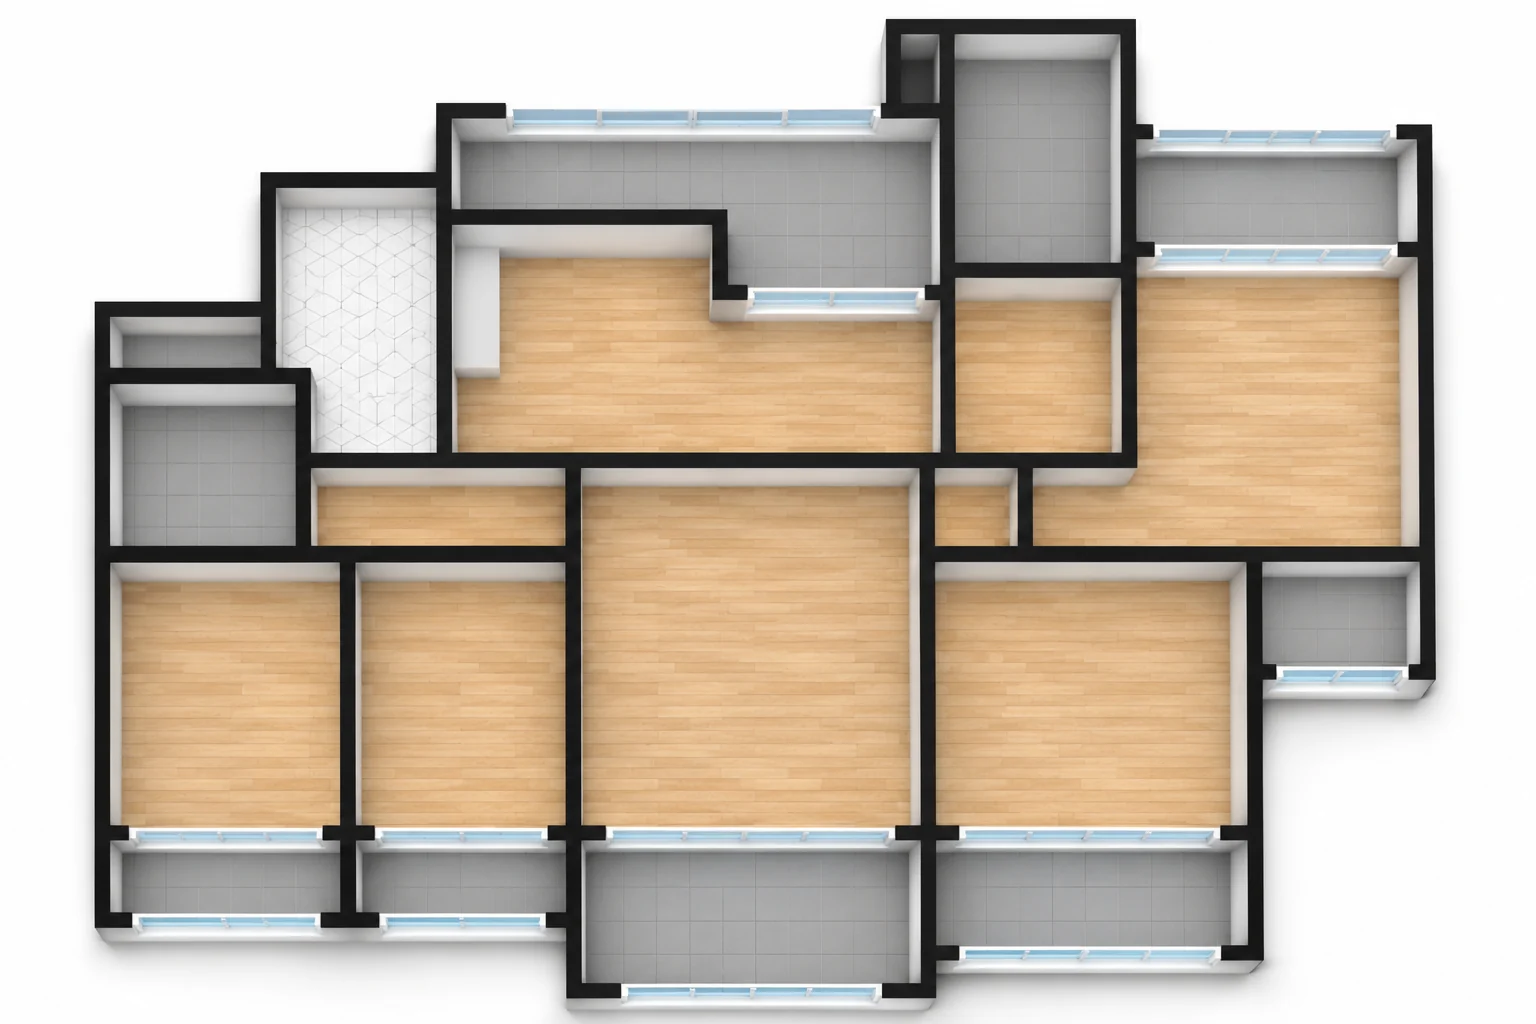
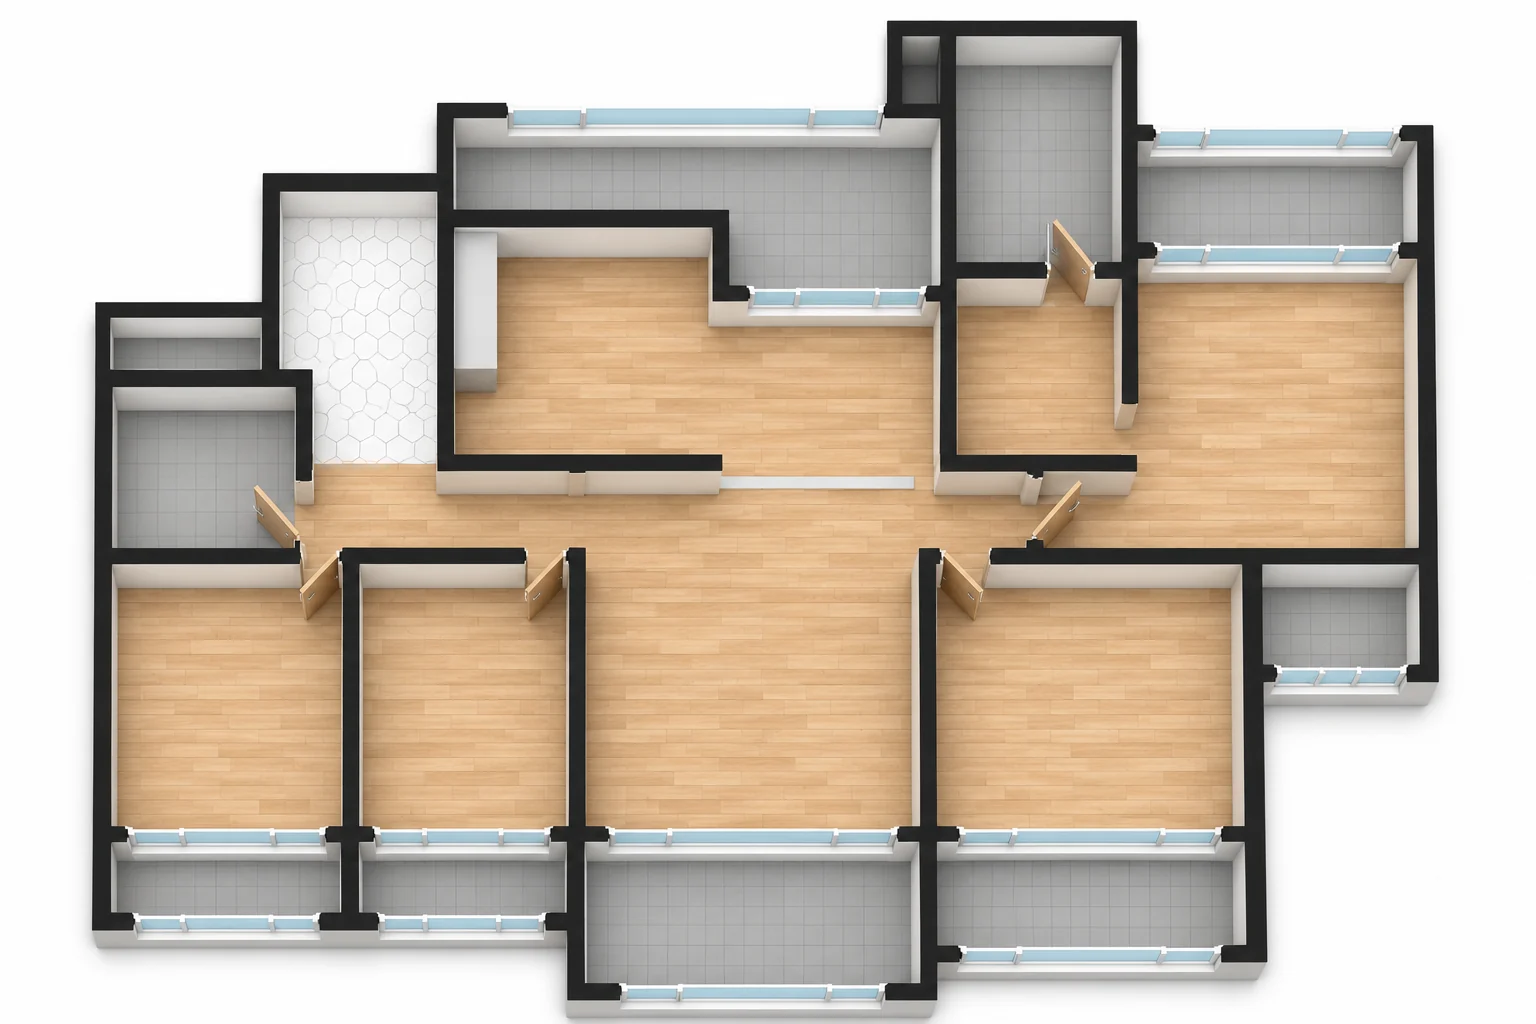
3D 둘러보기: 평면도 문·통로 열림(코덱스 다시 그림) · 확대 시 뒤 360° 비침 가림

Changed region(s): [[0.0625, 0.0312, 0.9375, 1.0], [0.125, 0.625, 0.1562, 0.6875], [0.5938, 0.1875, 0.625, 0.2188]]

diff --git a/tour/handyman/lottecastle/index.html b/tour/handyman/lottecastle/index.html
@@ -161,7 +161,8 @@ h1, h2, h3, p { margin: 0; }
 .mini .mm-room[aria-current="true"] rect, .mini .mm-room[aria-current="true"] path { fill: rgba(15,122,108,.34); stroke: #0f7a6c; stroke-width: 3px; }
 .mini .wall3d path { fill: none; stroke: #15191b; stroke-width: 9; stroke-linejoin: miter; stroke-linecap: square; }
 .mini .win3d .pane { fill: none; stroke: #ffffff; stroke-width: 9; } .mini .win3d .glass { fill: none; stroke: #a9c8d6; stroke-width: 3; }
-.mini .wall3d, .mini .win3d, .mini .f3d { pointer-events: none; }
+.mini .wall3d, .mini .win3d, .mini .f3d, .mini .opn, .mini .door3d { pointer-events: none; }
+.mini .opn rect { fill: url(#pWood); stroke: none; vector-effect: none; } .mini .door3d path { fill: none; stroke: #3b4248; stroke-width: 2; vector-effect: none; }
 .mini text { paint-order: stroke; stroke: rgba(255,255,255,.88); stroke-width: 5px; stroke-linejoin: round; fill: #17242a; }
 .mini text.e { fill: #3d4a50; }
 </style>
@@ -541,7 +542,7 @@ h1, h2, h3, p { margin: 0; }
       if (cv.width !== Math.round(pw * d) || cv.height !== Math.round(ph * d)) { cv.width = Math.round(pw * d); cv.height = Math.round(ph * d); cv.style.width = pw + "px"; cv.style.height = ph + "px"; }
       var L = el.offsetLeft, T = el.offsetTop, W = el.offsetWidth, H = el.offsetHeight, nw = el.naturalWidth, nh = el.naturalHeight,
           k = Math.min(W / nw, H / nh), fw = nw * k, fh = nh * k, fx = L + (W - fw) / 2, fy = T + (H - fh) / 2, cx = L + W / 2, cy = T + H / 2;
-      ctx.setTransform(d, 0, 0, d, 0, 0); ctx.clearRect(0, 0, pw, ph);
+      ctx.setTransform(d, 0, 0, d, 0, 0); ctx.fillStyle = getComputedStyle(el).backgroundColor || getComputedStyle(par).backgroundColor || "#e6e9eb"; if (/rgba\(0, 0, 0, 0\)|transparent/.test(ctx.fillStyle) || ctx.fillStyle === "rgba(0, 0, 0, 0)") ctx.fillStyle = "#e6e9eb"; ctx.fillRect(0, 0, pw, ph);   /* 11-18 확대 중 뒤 360° 화면이 비쳐 보이던 것 — 바탕을 칠해 가린다 */
       ctx.translate(cx + x, cy + y); ctx.scale(s, s); ctx.translate(-cx, -cy);
       ctx.imageSmoothingEnabled = true; ctx.imageSmoothingQuality = "high";
       ctx.drawImage(el, fx, fy, fw, fh);

diff --git a/tour/dain/samsung/index.html b/tour/dain/samsung/index.html
@@ -509,7 +509,7 @@ h1, h2, h3, p { margin: 0; }
       if (cv.width !== Math.round(pw * d) || cv.height !== Math.round(ph * d)) { cv.width = Math.round(pw * d); cv.height = Math.round(ph * d); cv.style.width = pw + "px"; cv.style.height = ph + "px"; }
       var L = el.offsetLeft, T = el.offsetTop, W = el.offsetWidth, H = el.offsetHeight, nw = el.naturalWidth, nh = el.naturalHeight,
           k = Math.min(W / nw, H / nh), fw = nw * k, fh = nh * k, fx = L + (W - fw) / 2, fy = T + (H - fh) / 2, cx = L + W / 2, cy = T + H / 2;
-      ctx.setTransform(d, 0, 0, d, 0, 0); ctx.clearRect(0, 0, pw, ph);
+      ctx.setTransform(d, 0, 0, d, 0, 0); ctx.fillStyle = getComputedStyle(el).backgroundColor || getComputedStyle(par).backgroundColor || "#e6e9eb"; if (/rgba\(0, 0, 0, 0\)|transparent/.test(ctx.fillStyle) || ctx.fillStyle === "rgba(0, 0, 0, 0)") ctx.fillStyle = "#e6e9eb"; ctx.fillRect(0, 0, pw, ph);   /* 11-18 확대 중 뒤 360° 화면이 비쳐 보이던 것 — 바탕을 칠해 가린다 */
       ctx.translate(cx + x, cy + y); ctx.scale(s, s); ctx.translate(-cx, -cy);
       ctx.imageSmoothingEnabled = true; ctx.imageSmoothingQuality = "high";
       ctx.drawImage(el, fx, fy, fw, fh);
